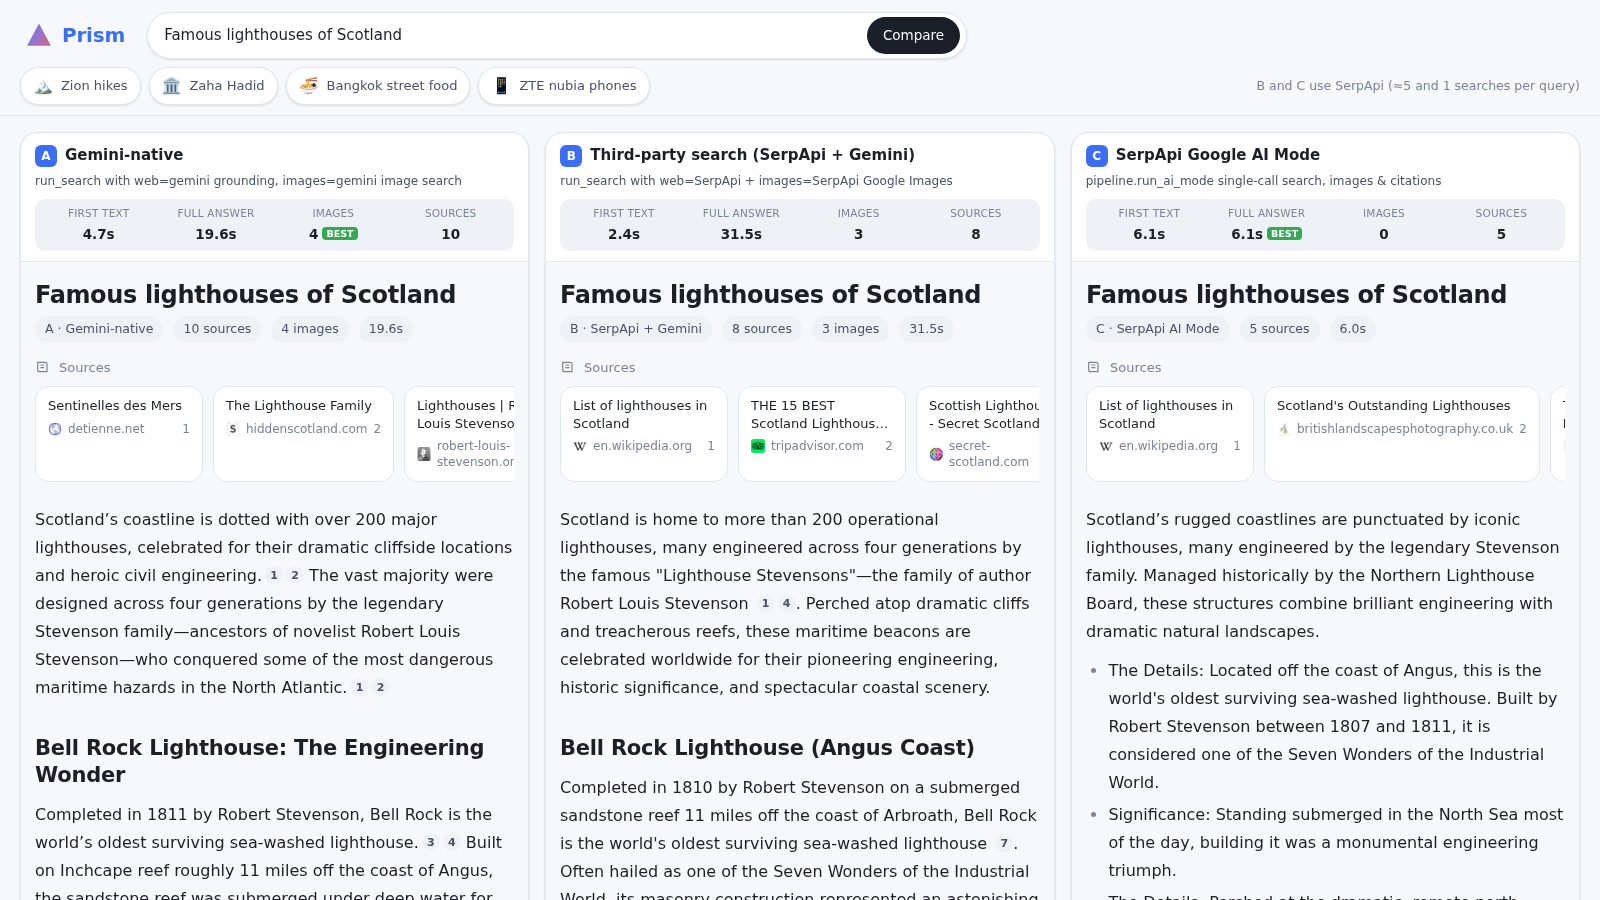
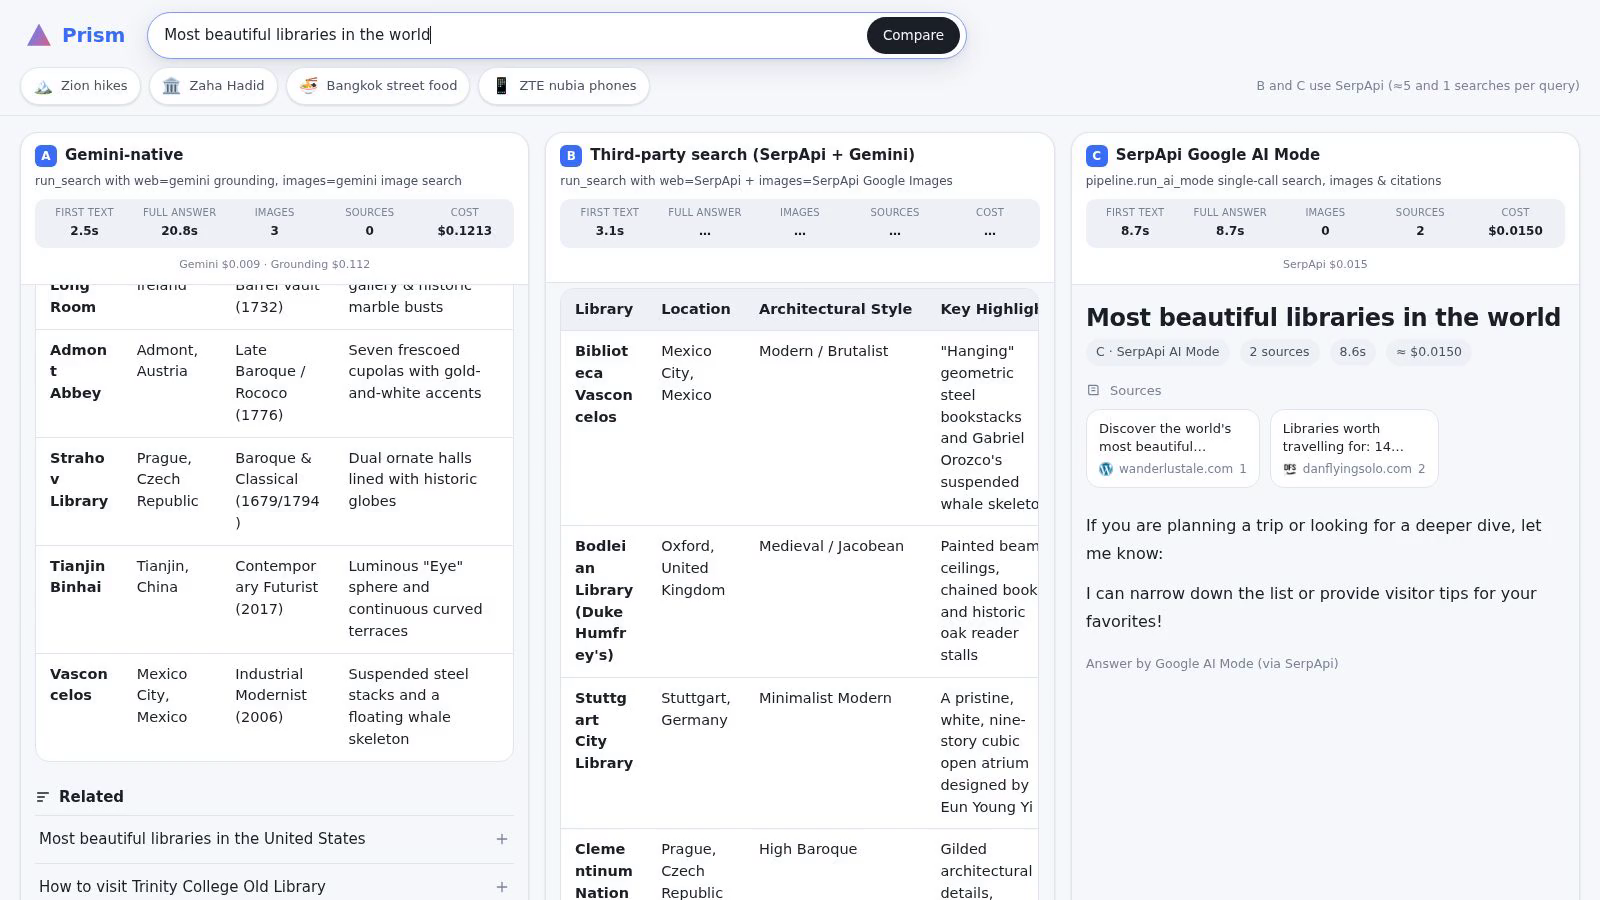
Docs: measured cost per architecture; compare screenshot with cost; contract test update

diff --git a/README.md b/README.md
@@ -28,11 +28,13 @@ needs no third-party API keys by default.
 
 Prism supports three distinct search architectures, evaluated across 8 diverse visual queries:
 
-| Architecture | First text (p50) | Full answer (p50) | Images / query | Relevance | Infrastructure & Cost |
-|---|---|---|---|---|---|
-| **A. Gemini-native (default)** | 4.8 s | **20.5 s** | **2.9** | **19/23 (83%)** | 1 Vertex AI project, 0 external keys |
-| **B. Third-party search** | **4.3 s** | 33.2 s | 2.4 | 16/19 (84%) | Vertex AI + SerpApi (~5 searches/query) |
-| **C. SerpApi Google AI Mode** | 8.5 s (no stream) | **8.5 s** | 0.1 | 1/1 | 1 SerpApi search/query, 0 Gemini |
+| Architecture | First text (p50) | Full answer (p50) | Images / query | Relevance | Measured cost / query* | Infrastructure |
+|---|---|---|---|---|---|---|
+| **A. Gemini-native (default)** | 4.8 s | **20.5 s** | **2.9** | **19/23 (83%)** | $0.12–0.22 | 1 Vertex AI project, 0 external keys |
+| **B. Third-party search** | **4.3 s** | 33.2 s | 2.4 | 16/19 (84%) | ~$0.08 | Vertex AI + SerpApi (~5 searches/query) |
+| **C. SerpApi Google AI Mode** | 8.5 s (no stream) | **8.5 s** | 0.1 | 1/1 | **$0.015** | 1 SerpApi search/query, 0 Gemini |
+
+\* Cost is measured per request (tokens × list prices) and shown live in the UI and the compare portal. Gemini 3 Google Search grounding is billed **per search query** ($14 / 1,000, web and image search alike), and each image slot's image search runs ~2–3 queries, so grounding is ~90% of architecture A's cost (e.g. $0.21 of $0.22: 15 queries vs ~$0.01 of tokens). The 5,000 free queries/month are ignored. SerpApi is priced at $0.015/search (Developer plan; `SERPAPI_COST_PER_SEARCH`).
 
 *   **Architecture A (Gemini-native):** Answers stream from `gemini-3.8-flash` using Grounding with Google Search. Image slots resolve concurrently using `gemini-3.1-flash-image` image search grounding and `gemini-3.1-flash-lite` visual re-ranking.
 *   **Architecture B (Third-party search):** SerpApi fetches Google web search results passed to `gemini-3.8-flash` as context. Image slots are retrieved via SerpApi Google Images and pass through the same Pillow normalization and visual re-ranking pipeline.
@@ -46,7 +48,7 @@ Prism includes an interactive comparison portal at `/compare` to evaluate all th
 
 ![Compare portal: the same query answered by all three architectures](docs/images/compare-portal.png)
 
-*Example: "Famous lighthouses of Scotland". A finished in 19.6 s with 4 images, B in 31.5 s with 3 images, C in 6.1 s with no images. A SerpApi result that comes back in under 1.5 s is served from its 1-hour cache, so it's labeled "cached" and excluded from the "best" badge.*
+*Example: "Most beautiful libraries in the world". A finished in 20.8 s, 3 images, $0.12 (grounding $0.112); B in 39.6 s, 4 images, $0.084 (SerpApi $0.075); C in 8.7 s, 0 images, $0.015. A SerpApi result that comes back in under 1.5 s is served from its 1-hour cache, so it's labeled "cached" and excluded from the "best" badges.*
 
 *   **Live Metrics:** Measures client-side time-to-first-token (TTFT), total completion time, source count, and filled image figures using sandboxed `<iframe>` panels running in embed mode (`/?embed=1&arch=...`).
 *   **Decoupled & Isolated:** Panels communicate metrics back to the portal via `window.parent.postMessage({type: "prism-metrics", ...})`, preventing state collisions between concurrent streams.
@@ -96,6 +98,8 @@ Env var | Default | Meaning
 `IMAGE_PROVIDER` | `gemini` | Image search: `gemini` (Google image-search grounding), `serpapi` (Google Images via SerpApi), `brave`, `openverse` (keyless, CC only)
 `WEB_PROVIDER` | `gemini` | Answer grounding: `gemini` (Grounding with Google Search) or `serpapi` (Google web results passed to Gemini as context)
 `SERPAPI_API_KEY` | `""` | API key for SerpApi (enables Architecture B and C)
+`SERPAPI_COST_PER_SEARCH` | `0.015` | USD per SerpApi search used in cost estimates (Developer plan)
+`PRICING_JSON` | — | JSON overriding Gemini list prices, e.g. `{"gemini-3.8-flash": {"input": 1.5, "output": 7.5}}`
 `BRAVE_API_KEY` | `""` | API key for Brave search provider
 `SERPAPI_NO_CACHE` | `""` | Set to `1` to bypass SerpApi cache for fresh latency benchmarks
 `ENABLE_WIKIMEDIA` | `true` | Wikimedia Commons fallback when search yields no suitable image

diff --git a/docs/third-party-comparison.md b/docs/third-party-comparison.md
@@ -59,3 +59,18 @@ WEB_PROVIDER=serpapi IMAGE_PROVIDER=serpapi python -m scripts.cli_search "best b
 ```
 
 Select architecture C in the UI with the **AI Mode** toggle (shown when `SERPAPI_API_KEY` is set).
+
+## Cost per query (measured)
+
+Since the cost meter landed, every request reports measured usage × list prices: Gemini tokens (incl. thinking and image tokens), Gemini 3 Google Search grounding at $14 per 1,000 **search queries** (web and image search), and SerpApi at $0.015/search (Developer plan). Free tiers are ignored.
+
+| Architecture | Typical cost / query | Where the money goes |
+|---|---|---|
+| A. Gemini-native | $0.12–0.22 | ~90% grounding: the answer runs a few web queries and every image slot's image search runs ~2–3 queries (e.g. 15 queries = $0.21); all tokens ≈ $0.01 |
+| B. SerpApi + Gemini | ~$0.08 | ~5 SerpApi searches ($0.075) + Gemini tokens (~$0.009) |
+| C. SerpApi AI Mode | $0.015 | 1 SerpApi search, no Gemini |
+
+Ways to cut A's cost:
+- Fewer image slots (`MAX_IMAGE_SLOTS`).
+- Batch several slots into one image search.
+- The 5,000 free grounding queries a month cover roughly 300–400 queries.
